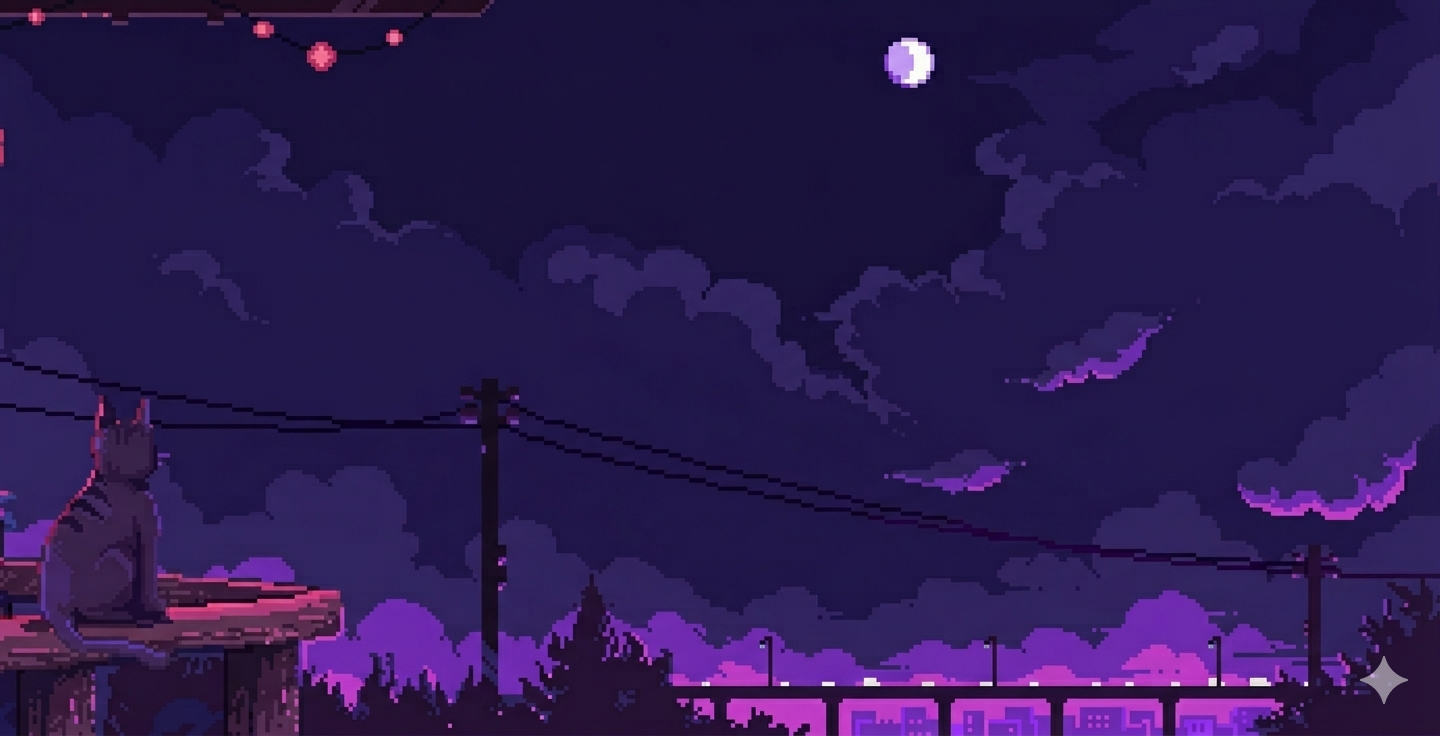
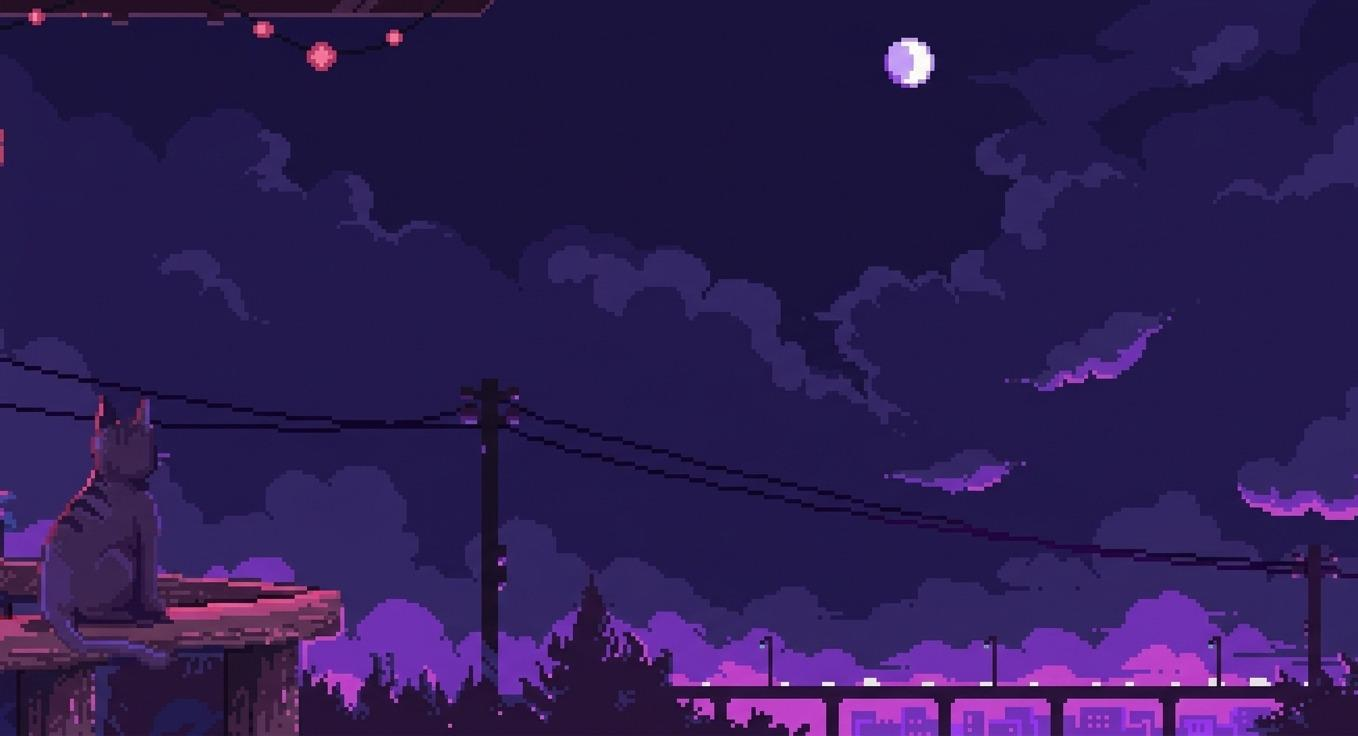
Change the bg image

diff --git a/src/styles/global.css b/src/styles/global.css
@@ -32,7 +32,7 @@ body {
   inset: 0;
   background-image: url("/background.png");
   background-size: cover;
-  background-position: center bottom;
+  background-position: center center;
   background-repeat: no-repeat;
   image-rendering: pixelated;
 }
